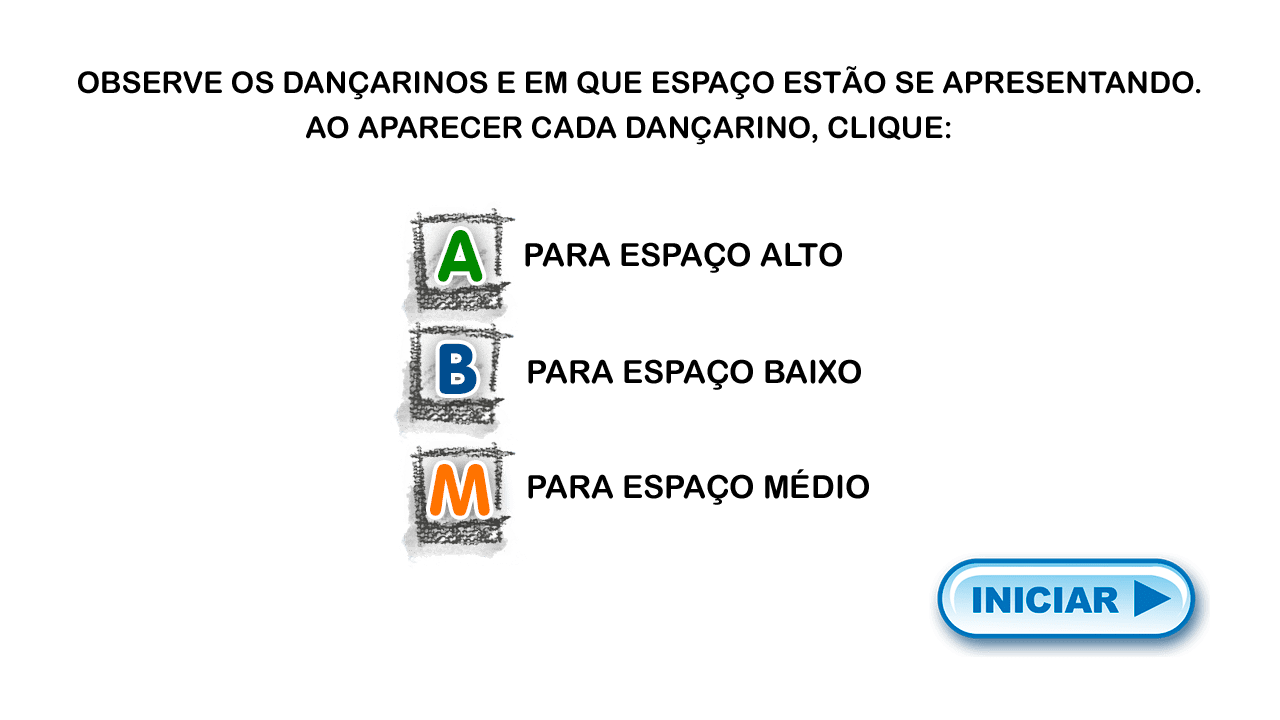
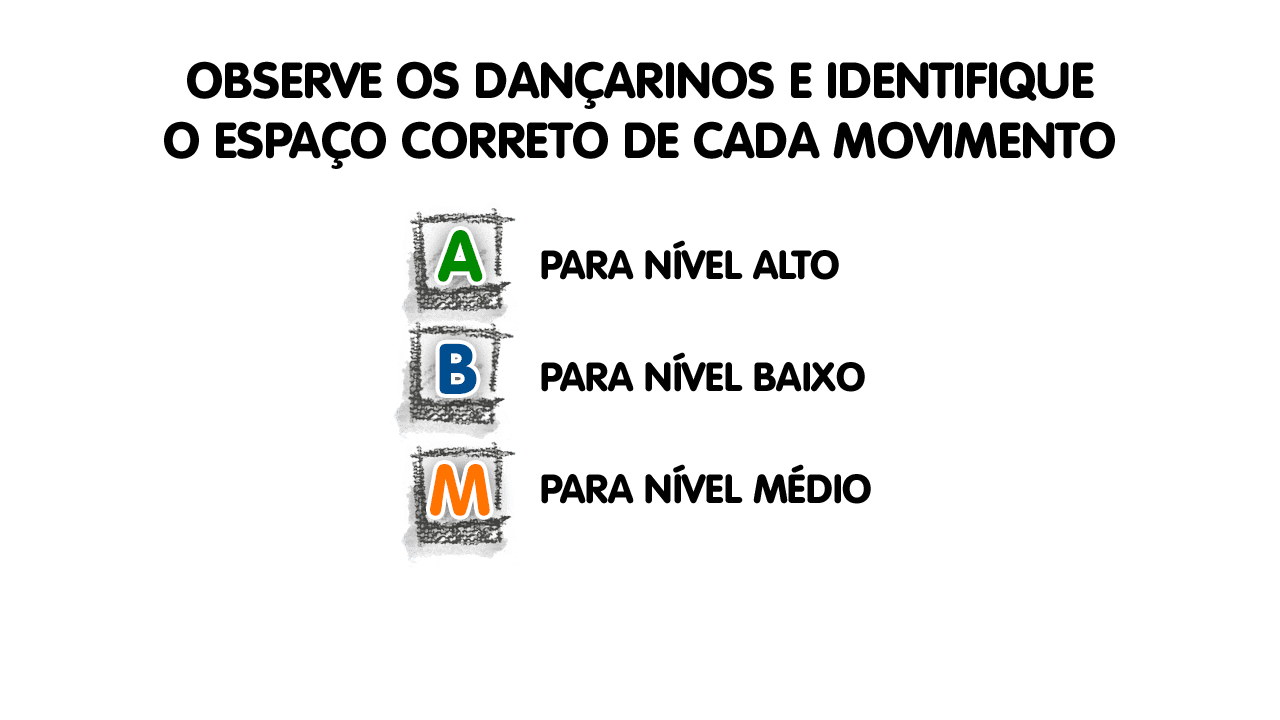
realizado as correções do ODA SAE25_AI11_ART_C01_OA1

diff --git a/ODAs_Corrigidos/ODAs/ambiente_teste/copie/seu_oda/aqui/SAE25_AI11_ART_C01_OA1/index.html b/ODAs_Corrigidos/ODAs/ambiente_teste/copie/seu_oda/aqui/SAE25_AI11_ART_C01_OA1/index.html
@@ -1,42 +1,152 @@
-<!DOCTYPE html><html xmlns="http://www.w3.org/1999/xhtml">
- 
-<head>
-<meta charset="utf-8">
+<!DOCTYPE html>
+<html xmlns="http://www.w3.org/1999/xhtml">
+  <head>
+    <meta charset="utf-8" />
 
-<title>SAE25_AI11_ART_C01_OA1</title>
-<!-- codigo antigo <title>EF23_2_ART_L2_U2_04_OD2</title> -->
+    <title>SAE25_AI11_ART_C01_OA1</title>
+    <!-- codigo antigo <title>EF23_2_ART_L2_U2_04_OD2</title> -->
 
-<link href="../../../../../../geral/css/html5reset.css" rel="stylesheet" type="text/css">
-<link href="../../../../../../geral/css/geral.css" rel="stylesheet" type="text/css">
-<link href="../../../../../../geral/css/geral1024.css" rel="stylesheet" type="text/css">
-<link href="../../../../../../geral/css/geral640.css" rel="stylesheet" type="text/css">
-<link href="../../../../../../geral/css/EF1/disciplinas/artes.css" rel="stylesheet" type="text/css">
-<script src="../../../../../../geral/js/jquery-1.11.3.min.js"></script>
-<script src="../../../../../../geral/js/jquery.lib.min.js"></script>
-<script src="../../../../../../geral/js/jquery.lib.ods.min.js"></script>
-<script src="../../../../../../geral/js/jquery.geral.init.js"></script>
-<script src="../../../../../../geral/js/jquery.professor.init.js"></script>
-<script src="../../../../../../geral/js/jogoQuizAssociar2018.js"></script>
-</head>
-<body id="SAE25_AI11_ART_C01_OA1" class="od ef1" lang="pt-BR">
+    <link
+      href="../../../../../../geral/css/html5reset.css"
+      rel="stylesheet"
+      type="text/css"
+    />
+    <link
+      href="../../../../../../geral/css/geral.css"
+      rel="stylesheet"
+      type="text/css"
+    />
+    <link
+      href="../../../../../../geral/css/geral1024.css"
+      rel="stylesheet"
+      type="text/css"
+    />
+    <link
+      href="../../../../../../geral/css/geral640.css"
+      rel="stylesheet"
+      type="text/css"
+    />
+    <link
+      href="../../../../../../geral/css/EF1/disciplinas/artes.css"
+      rel="stylesheet"
+      type="text/css"
+    />
+    <script src="../../../../../../geral/js/jquery-1.11.3.min.js"></script>
+    <script src="../../../../../../geral/js/jquery.lib.min.js"></script>
+    <script src="../../../../../../geral/js/jquery.lib.ods.min.js"></script>
+    <script src="../../../../../../geral/js/jquery.geral.init.js"></script>
+    <script src="../../../../../../geral/js/jquery.professor.init.js"></script>
+    <script src="../../../../../../geral/js/jogoQuizAssociar2018.js"></script>
+  </head>
+  <body id="SAE25_AI11_ART_C01_OA1" class="od ef1" lang="pt-BR">
+    <a class="professor" href="#professor">Para o professor</a>
+    <div id="professorOD2" class="professor">
+      <h2>Encaminhamento metodológico</h2>
+      <p>
+        Explique para a turma que as imagens do jogo da realidade aumentada
+        apresentam dançarinos de vários gêneros em diferentes espaços de
+        apresentação. Relembre o conteúdo do livro sobre espaços alto, médio e
+        baixo.
+      </p>
+      <p>
+        Após o jogo, proponha a brincadeira do “Morto – vivo”, porém brincando
+        com os espaços. Combine os códigos (se houver aluno com deficiência
+        física, faça uma adaptação de acordo com a necessidade): ao comando
+        “Espaço alto!”, devem fazer passo de dança pulando ou na ponta dos pés;
+        ao comando “Espaço baixo!”, devem fazer passo de dança no chão ou se
+        agachando; ao comando “Espaço médio!”, devem fazer passo de dança de pé.
+      </p>
+      <p>
+        Faça alternância do comandante, para que todos participem e aprendam a
+        brincar sem a necessidade de o professor comandar.
+      </p>
+    </div>
 
+    <h2>EM QUAL NÍVEL?</h2>
+    <center>
+      <canvas id="od2" width="1280" height="720"></canvas>
+      <p class="textoCredito" style="text-indent: 0; padding-left: 0">
+        SAE Digital S/A
+      </p>
+    </center>
 
-
-<a class="professor" href="#professor">Para o professor</a>
-<div id="professorOD2" class="professor">
-<h2>Encaminhamento metodológico</h2>
-<p>Explique para a turma que as imagens do jogo da realidade aumentada apresentam dançarinos de vários gêneros em diferentes espaços de apresentação. Relembre o conteúdo do livro sobre espaços alto, médio e baixo.</p>
-<p>Após o jogo, proponha a brincadeira do “Morto – vivo”, porém brincando com os espaços. Combine os códigos (se houver aluno com deficiência física, faça uma adaptação de acordo com a necessidade): ao comando “Espaço alto!”, devem fazer passo de dança pulando ou na ponta dos pés; ao comando “Espaço baixo!”, devem fazer passo de dança no chão ou se agachando; ao comando “Espaço médio!”, devem fazer passo de dança de pé.</p>
-<p>Faça alternância do comandante, para que todos participem e aprendam a brincar sem a necessidade de o professor comandar.</p>
-</div>
-
-<h2>EM QUAL NÍVEL?</h2>
-<center>
-<canvas id="od2" width="1280" height="720"></canvas>
-<p class="textoCredito" style="text-indent:0; padding-left:0;">SAE Digital S/A</p>
-</center>
-
-<script>var itens_associar=[{botao:['bt0.png','bt1.png','bt2.png'],botaoCerto:'bt1.png',pergunta:'f0.png',resposta:null},{botao:['bt0.png','bt1.png','bt2.png'],botaoCerto:'bt1.png',pergunta:'f1.png',resposta:null},{botao:['bt0.png','bt1.png','bt2.png'],botaoCerto:'bt1.png',pergunta:'f2.png',resposta:null},{botao:['bt0.png','bt1.png','bt2.png'],botaoCerto:'bt2.png',pergunta:'f3.png',resposta:null},{botao:['bt0.png','bt1.png','bt2.png'],botaoCerto:'bt2.png',pergunta:'f4.png',resposta:null},{botao:['bt0.png','bt1.png','bt2.png'],botaoCerto:'bt2.png',pergunta:'f5.png',resposta:null},{botao:['bt0.png','bt1.png','bt2.png'],botaoCerto:'bt0.png',pergunta:'f6.png',resposta:null},{botao:['bt0.png','bt1.png','bt2.png'],botaoCerto:'bt0.png',pergunta:'f7.png',resposta:null},{botao:['bt0.png','bt1.png','bt2.png'],botaoCerto:'bt0.png',pergunta:'f8.png',resposta:null}];AppQuiz('od2','fundo_od2.png',[130,137], /*tamanho bt*/[700,250], /*margem botoes*/50,1280, /*area para os botoes antes de quebrar pra outra linha*/[980,340],[400,350], /* posicao da pergunta*/3000, /*tempo em milisegundos antes de passar pra proxima pergunta */800, /*largura da pergunta caso seja texto*/35, /*tamanho da fonte da pergunta*/35, /*tamanho da fonte dos botoes*/false, /*respostaCerta*/false, /*mostra imagem certa no final da pergunta*/itens_associar,true, /*respostas diferentes pra cada pergunta*/false, /*esconde pontos no fim do jogo*/"gui_associar.png" /*imagem de fundo dos pontos*/);</script>
-
-</body>
+    <script>
+      var itens_associar = [
+        {
+          botao: ["bt0.png", "bt1.png", "bt2.png"],
+          botaoCerto: "bt1.png",
+          pergunta: "f0.png",
+          resposta: null,
+        },
+        {
+          botao: ["bt0.png", "bt1.png", "bt2.png"],
+          botaoCerto: "bt1.png",
+          pergunta: "f1.png",
+          resposta: null,
+        },
+        {
+          botao: ["bt0.png", "bt1.png", "bt2.png"],
+          botaoCerto: "bt1.png",
+          pergunta: "f2.png",
+          resposta: null,
+        },
+        {
+          botao: ["bt0.png", "bt1.png", "bt2.png"],
+          botaoCerto: "bt2.png",
+          pergunta: "f3.png",
+          resposta: null,
+        },
+        {
+          botao: ["bt0.png", "bt1.png", "bt2.png"],
+          botaoCerto: "bt2.png",
+          pergunta: "f4.png",
+          resposta: null,
+        },
+        {
+          botao: ["bt0.png", "bt1.png", "bt2.png"],
+          botaoCerto: "bt2.png",
+          pergunta: "f5.png",
+          resposta: null,
+        },
+        {
+          botao: ["bt0.png", "bt1.png", "bt2.png"],
+          botaoCerto: "bt0.png",
+          pergunta: "f6.png",
+          resposta: null,
+        },
+        {
+          botao: ["bt0.png", "bt1.png", "bt2.png"],
+          botaoCerto: "bt0.png",
+          pergunta: "f7.png",
+          resposta: null,
+        },
+        {
+          botao: ["bt0.png", "bt1.png", "bt2.png"],
+          botaoCerto: "bt0.png",
+          pergunta: "f8.png",
+          resposta: null,
+        },
+      ];
+      AppQuiz(
+        "od2",
+        "fundo_od2.png",
+        [130, 137],
+        /*tamanho bt*/ [700, 250],
+        /*margem botoes*/ 50,
+        1280,
+        /*area para os botoes antes de quebrar pra outra linha*/ [980, 340],
+        [400, 350],
+        /* posicao da pergunta*/ 3000,
+        /*tempo em milisegundos antes de passar pra proxima pergunta */ 800,
+        /*largura da pergunta caso seja texto*/ 35,
+        /*tamanho da fonte da pergunta*/ 35,
+        /*tamanho da fonte dos botoes*/ false,
+        /*respostaCerta*/ false,
+        /*mostra imagem certa no final da pergunta*/ itens_associar,
+        true,
+        /*respostas diferentes pra cada pergunta*/ false,
+        /*esconde pontos no fim do jogo*/ "gui_associar.png" /*imagem de fundo dos pontos*/
+      );
+    </script>
+  </body>
 </html>
